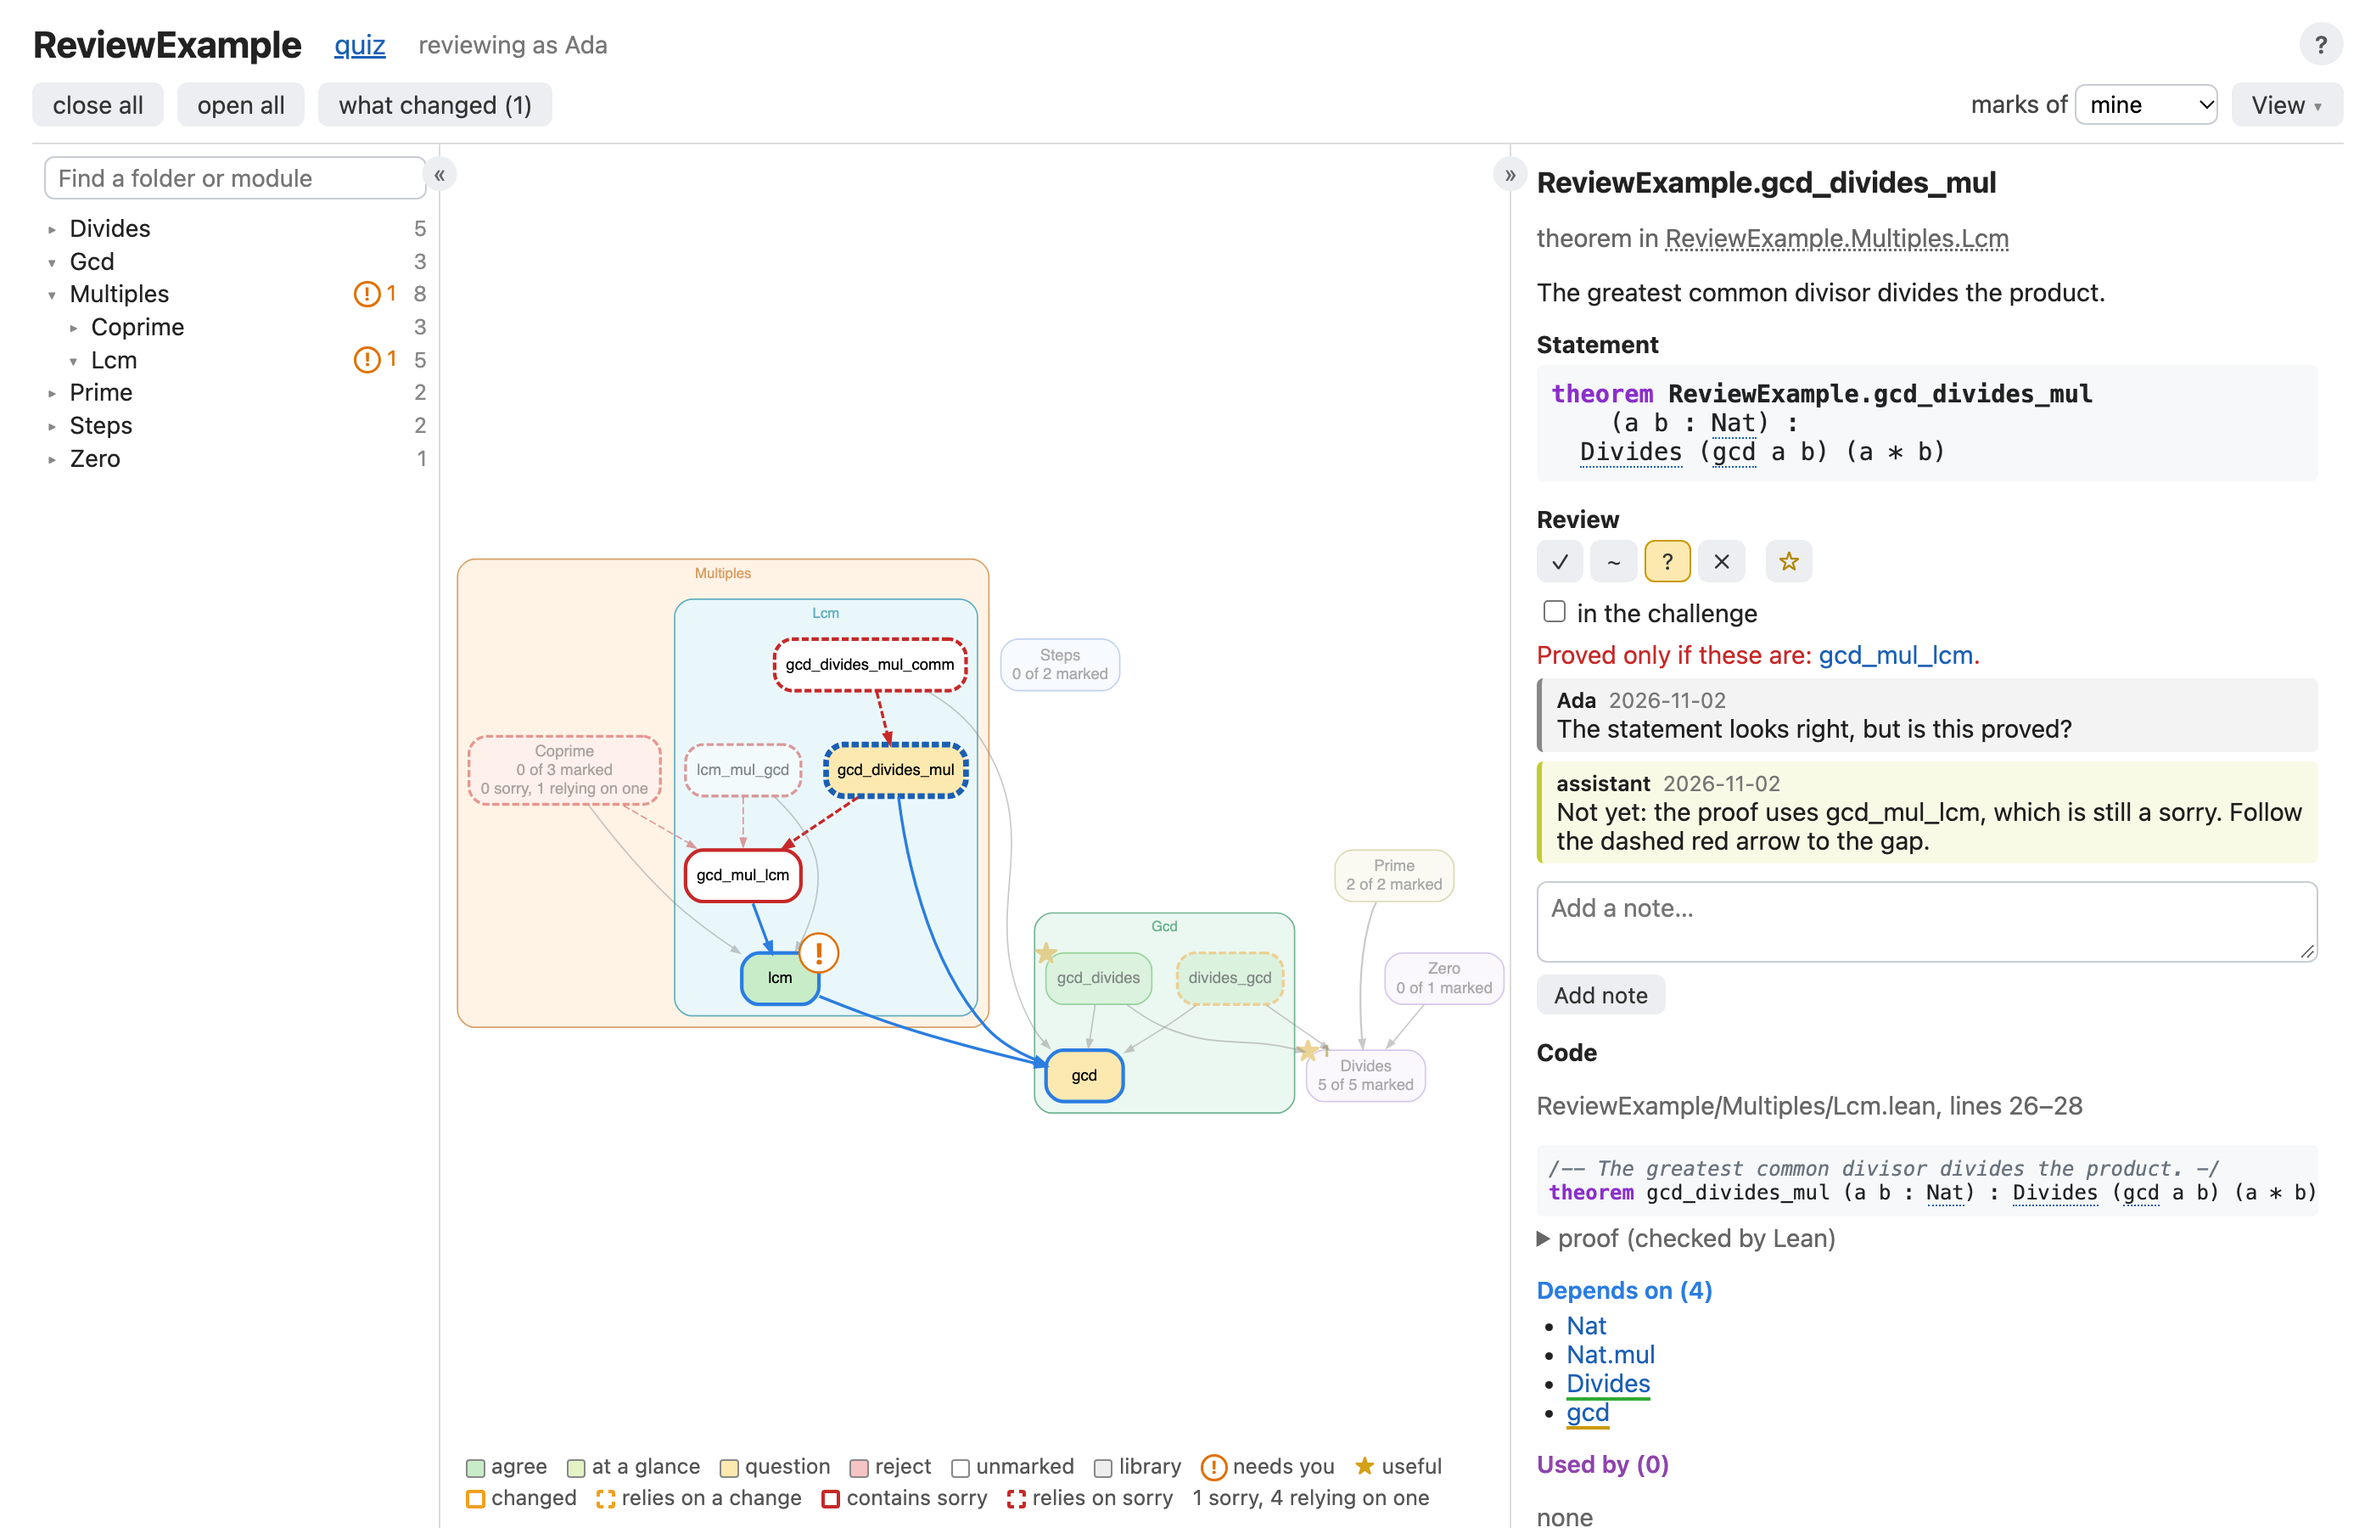
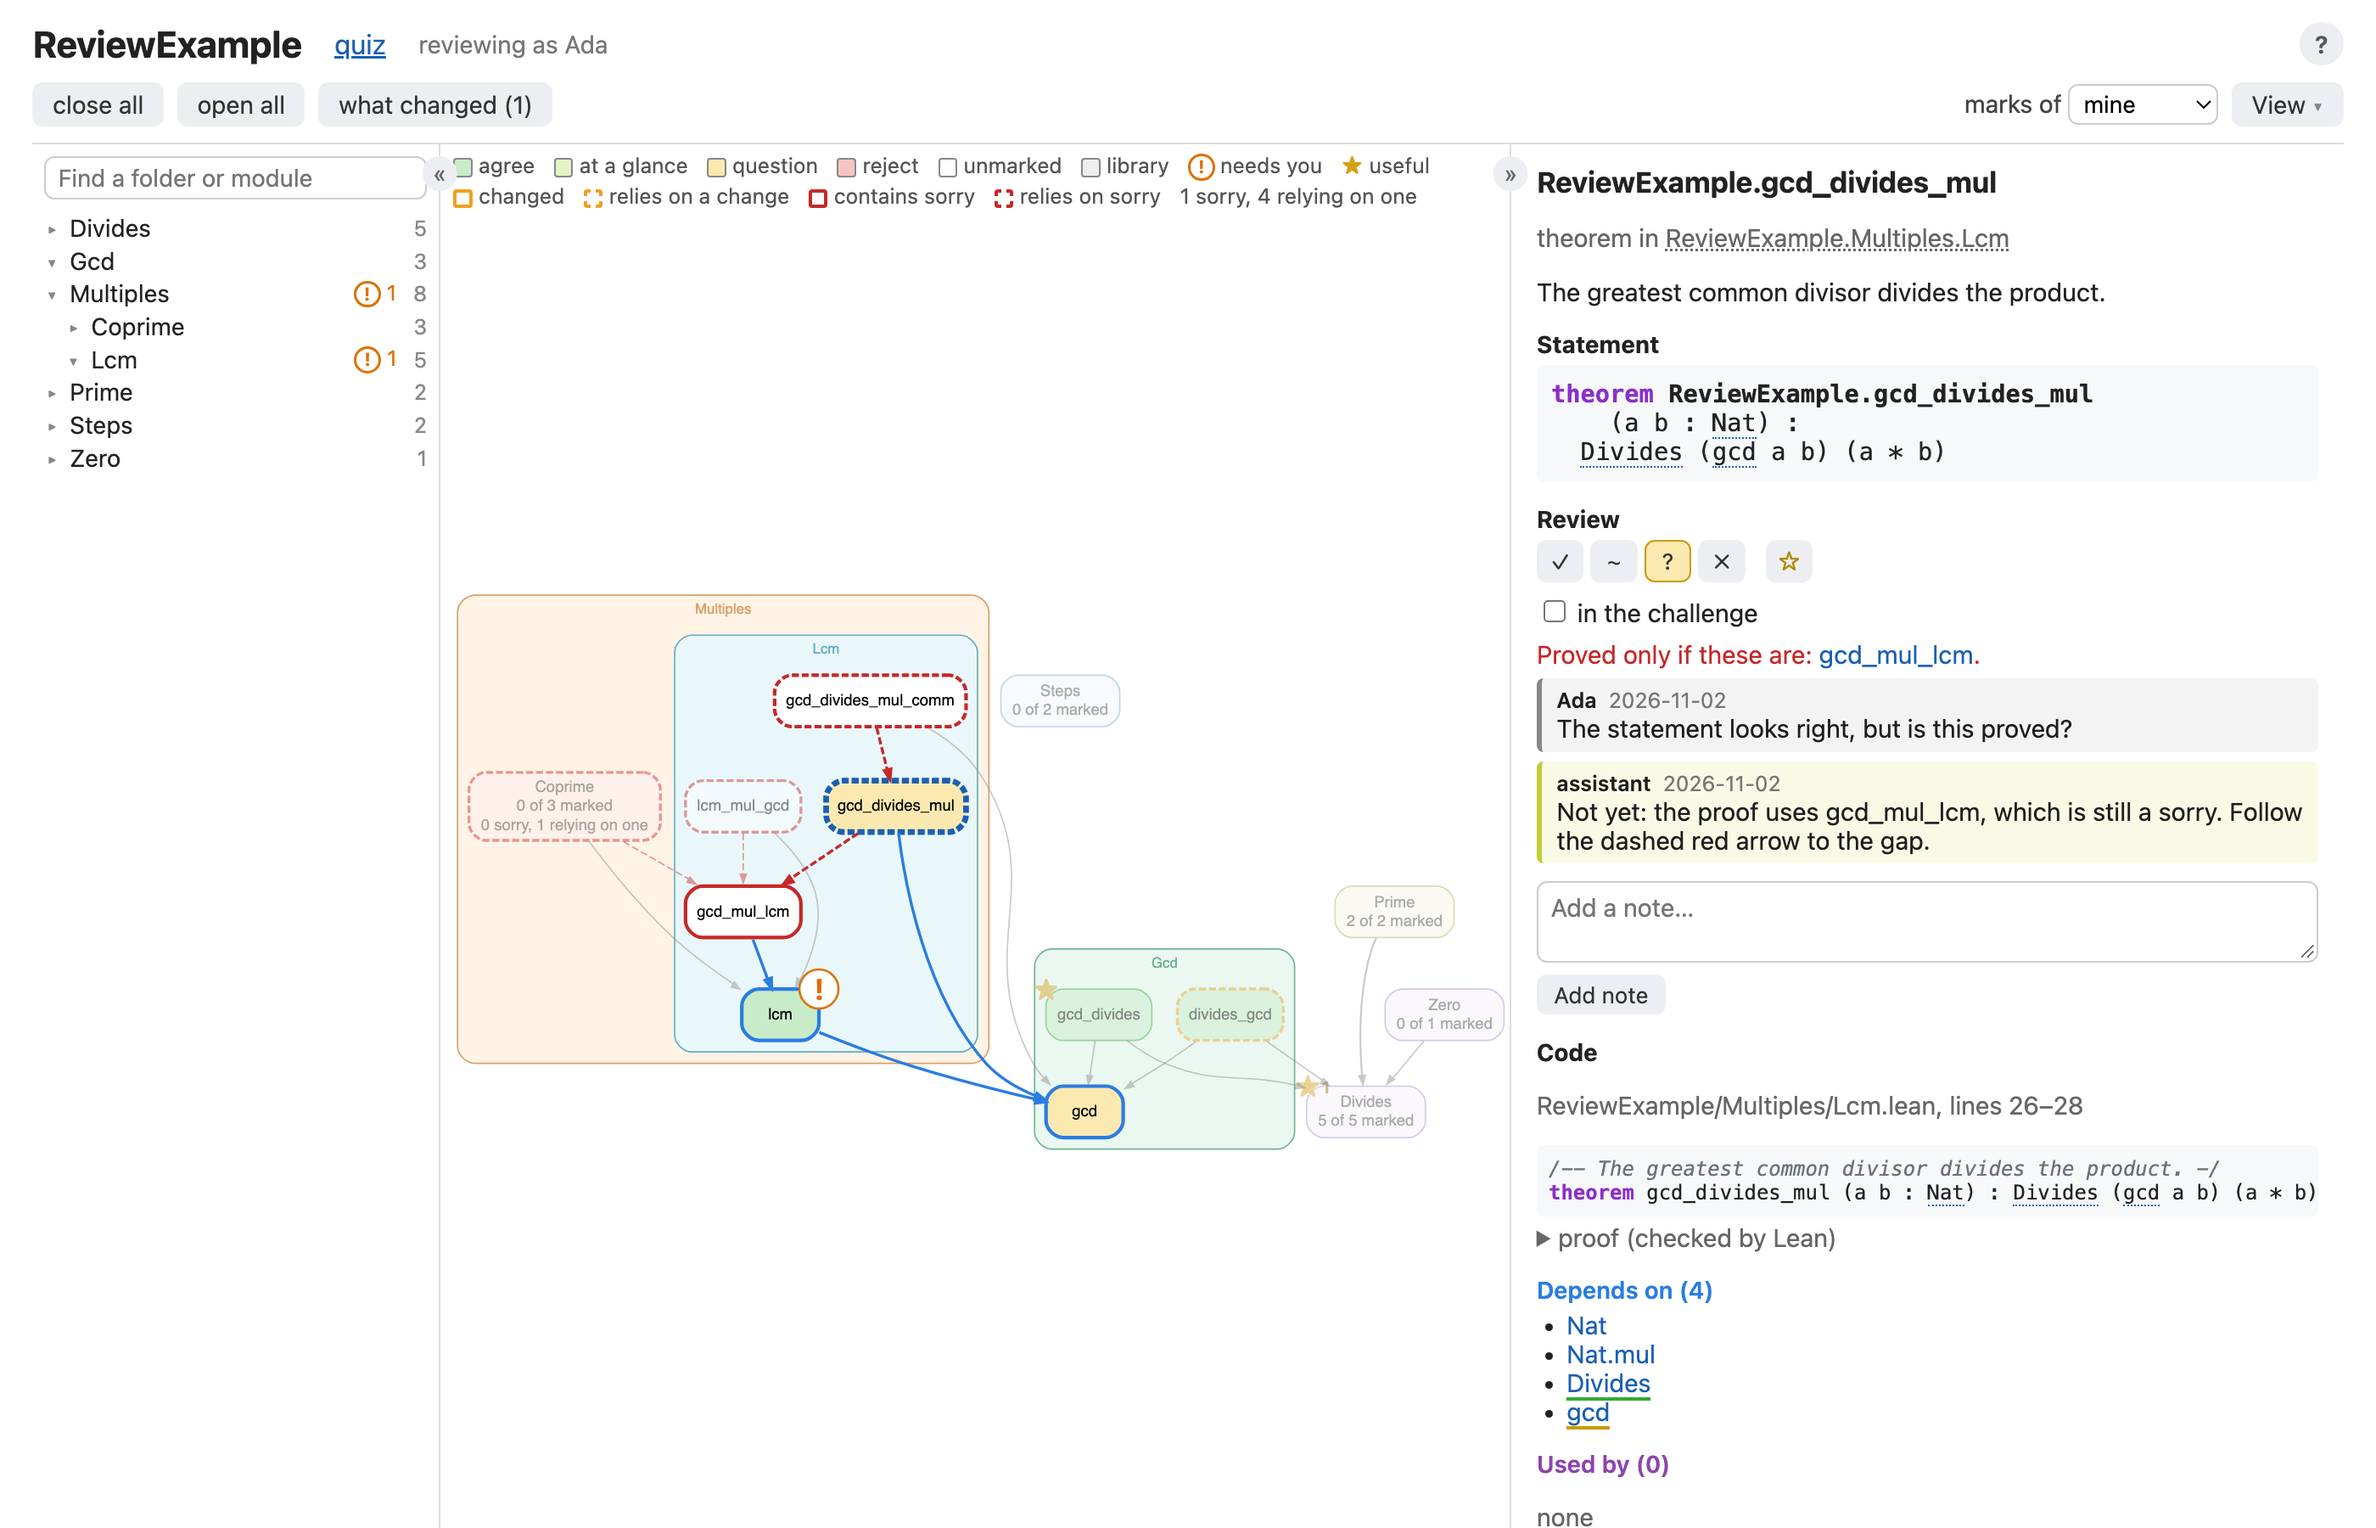
Put the diagram's key in a row above it, so it covers nothing
Floating in the diagram's corner, the key hid whatever was drawn beneath it.

diff --git a/lean_vouch/web/graph.html b/lean_vouch/web/graph.html
@@ -33,11 +33,10 @@
   .menu-panel label { display: block; margin: 0.3em 0; white-space: nowrap; }
   .menu-head { margin: 0.7em 0 0.2em; padding-top: 0.5em; border-top: 1px solid #eee; font-size: 0.8em; color: #777;
     text-transform: uppercase; letter-spacing: 0.04em; }
-  /* The key, in the diagram's corner; it lets clicks through to the diagram. */
-  #diagram-area { flex: 1; min-width: 0; position: relative; display: flex; }
-  .legend { position: absolute; left: 0.6em; bottom: 0.6em; max-width: calc(100% - 1.2em); pointer-events: none;
-    display: flex; flex-wrap: wrap; gap: 0.15em 0.9em; font-size: 0.78em; color: #555;
-    background: #ffffffd9; border-radius: 6px; padding: 0.3em 0.6em; }
+  /* The key, in a row of its own above the diagram, so it never covers any of it. */
+  #diagram-area { flex: 1; min-width: 0; display: flex; flex-direction: column; }
+  .legend { flex: none; display: flex; flex-wrap: wrap; gap: 0.15em 0.9em; font-size: 0.78em; color: #555;
+    padding: 0.4em 0.6em; }
   .legend span[hidden] { display: none; }
   .swatch { display: inline-block; width: 0.9em; height: 0.9em; border-radius: 2px; vertical-align: middle;
     margin-right: 0.3em; border: 1px solid #888; box-sizing: border-box; }
@@ -73,7 +72,7 @@
   .row.pinned .label { font-weight: 600; }
   .row mark { background: #fbe9b0; color: inherit; padding: 0; }
   .row.focus { background: #dcebfb; }
-  #diagram { flex: 1; min-width: 0; overflow: hidden; cursor: grab; }
+  #diagram { flex: 1; min-width: 0; min-height: 0; overflow: hidden; cursor: grab; }
   #sidebar .start { color: #666; }
   #sidebar .start a { cursor: pointer; color: #1a5fb4; }
   #diagram:active { cursor: grabbing; }
@@ -200,7 +199,6 @@
   </nav>
   <div class="divider" data-panel="tree" title="Drag to resize; double-click to reset"><button type="button" class="panel-toggle"></button></div>
   <div id="diagram-area">
-    <div id="diagram"></div>
     <div class="legend">
       <span><i class="swatch" style="background:#c8ecc8"></i>agree</span>
       <span><i class="swatch" style="background:#e4f2c4"></i>at a glance</span>
@@ -217,6 +215,7 @@
       <span class="gaps-key" hidden><i class="swatch" style="background:#fff;border:2px dashed #c62828"></i>relies on sorry</span>
       <span class="gaps-key" id="gaps-total" hidden></span>
     </div>
+    <div id="diagram"></div>
   </div>
   <div class="divider" data-panel="sidebar" title="Drag to resize; double-click to reset"><button type="button" class="panel-toggle"></button></div>
   <aside id="sidebar"></aside>

diff --git a/CHANGELOG.md b/CHANGELOG.md
@@ -2,7 +2,7 @@
 
 ## Unreleased
 
-- The pages explain less in place: a **?** at the top of the diagram and quiz pages opens a short tutorial, which opens by itself on a first visit. The diagram's controls fit on one row, with what it draws, library plumbing included, under a **View** menu; its key sits in a corner of the diagram; and « and » on the lines beside the panels hide them. Buttons and fields look the same across pages.
+- The pages explain less in place: a **?** at the top of the diagram and quiz pages opens a short tutorial, which opens by itself on a first visit. The diagram's controls fit on one row, with what it draws, library plumbing included, under a **View** menu; its key is one row above the diagram; and « and » on the lines beside the panels hide them. Buttons and fields look the same across pages.
 - A statement whose declaration has more than one universe, which Lean prints after its name as `Name.{u, v}`, is laid out whole. Before, its name was cut off inside that list, and the arguments with it. The name is now shown without its universes, as doc-gen4 does.
 
 ## 0.1.2 (2026-11-12)
